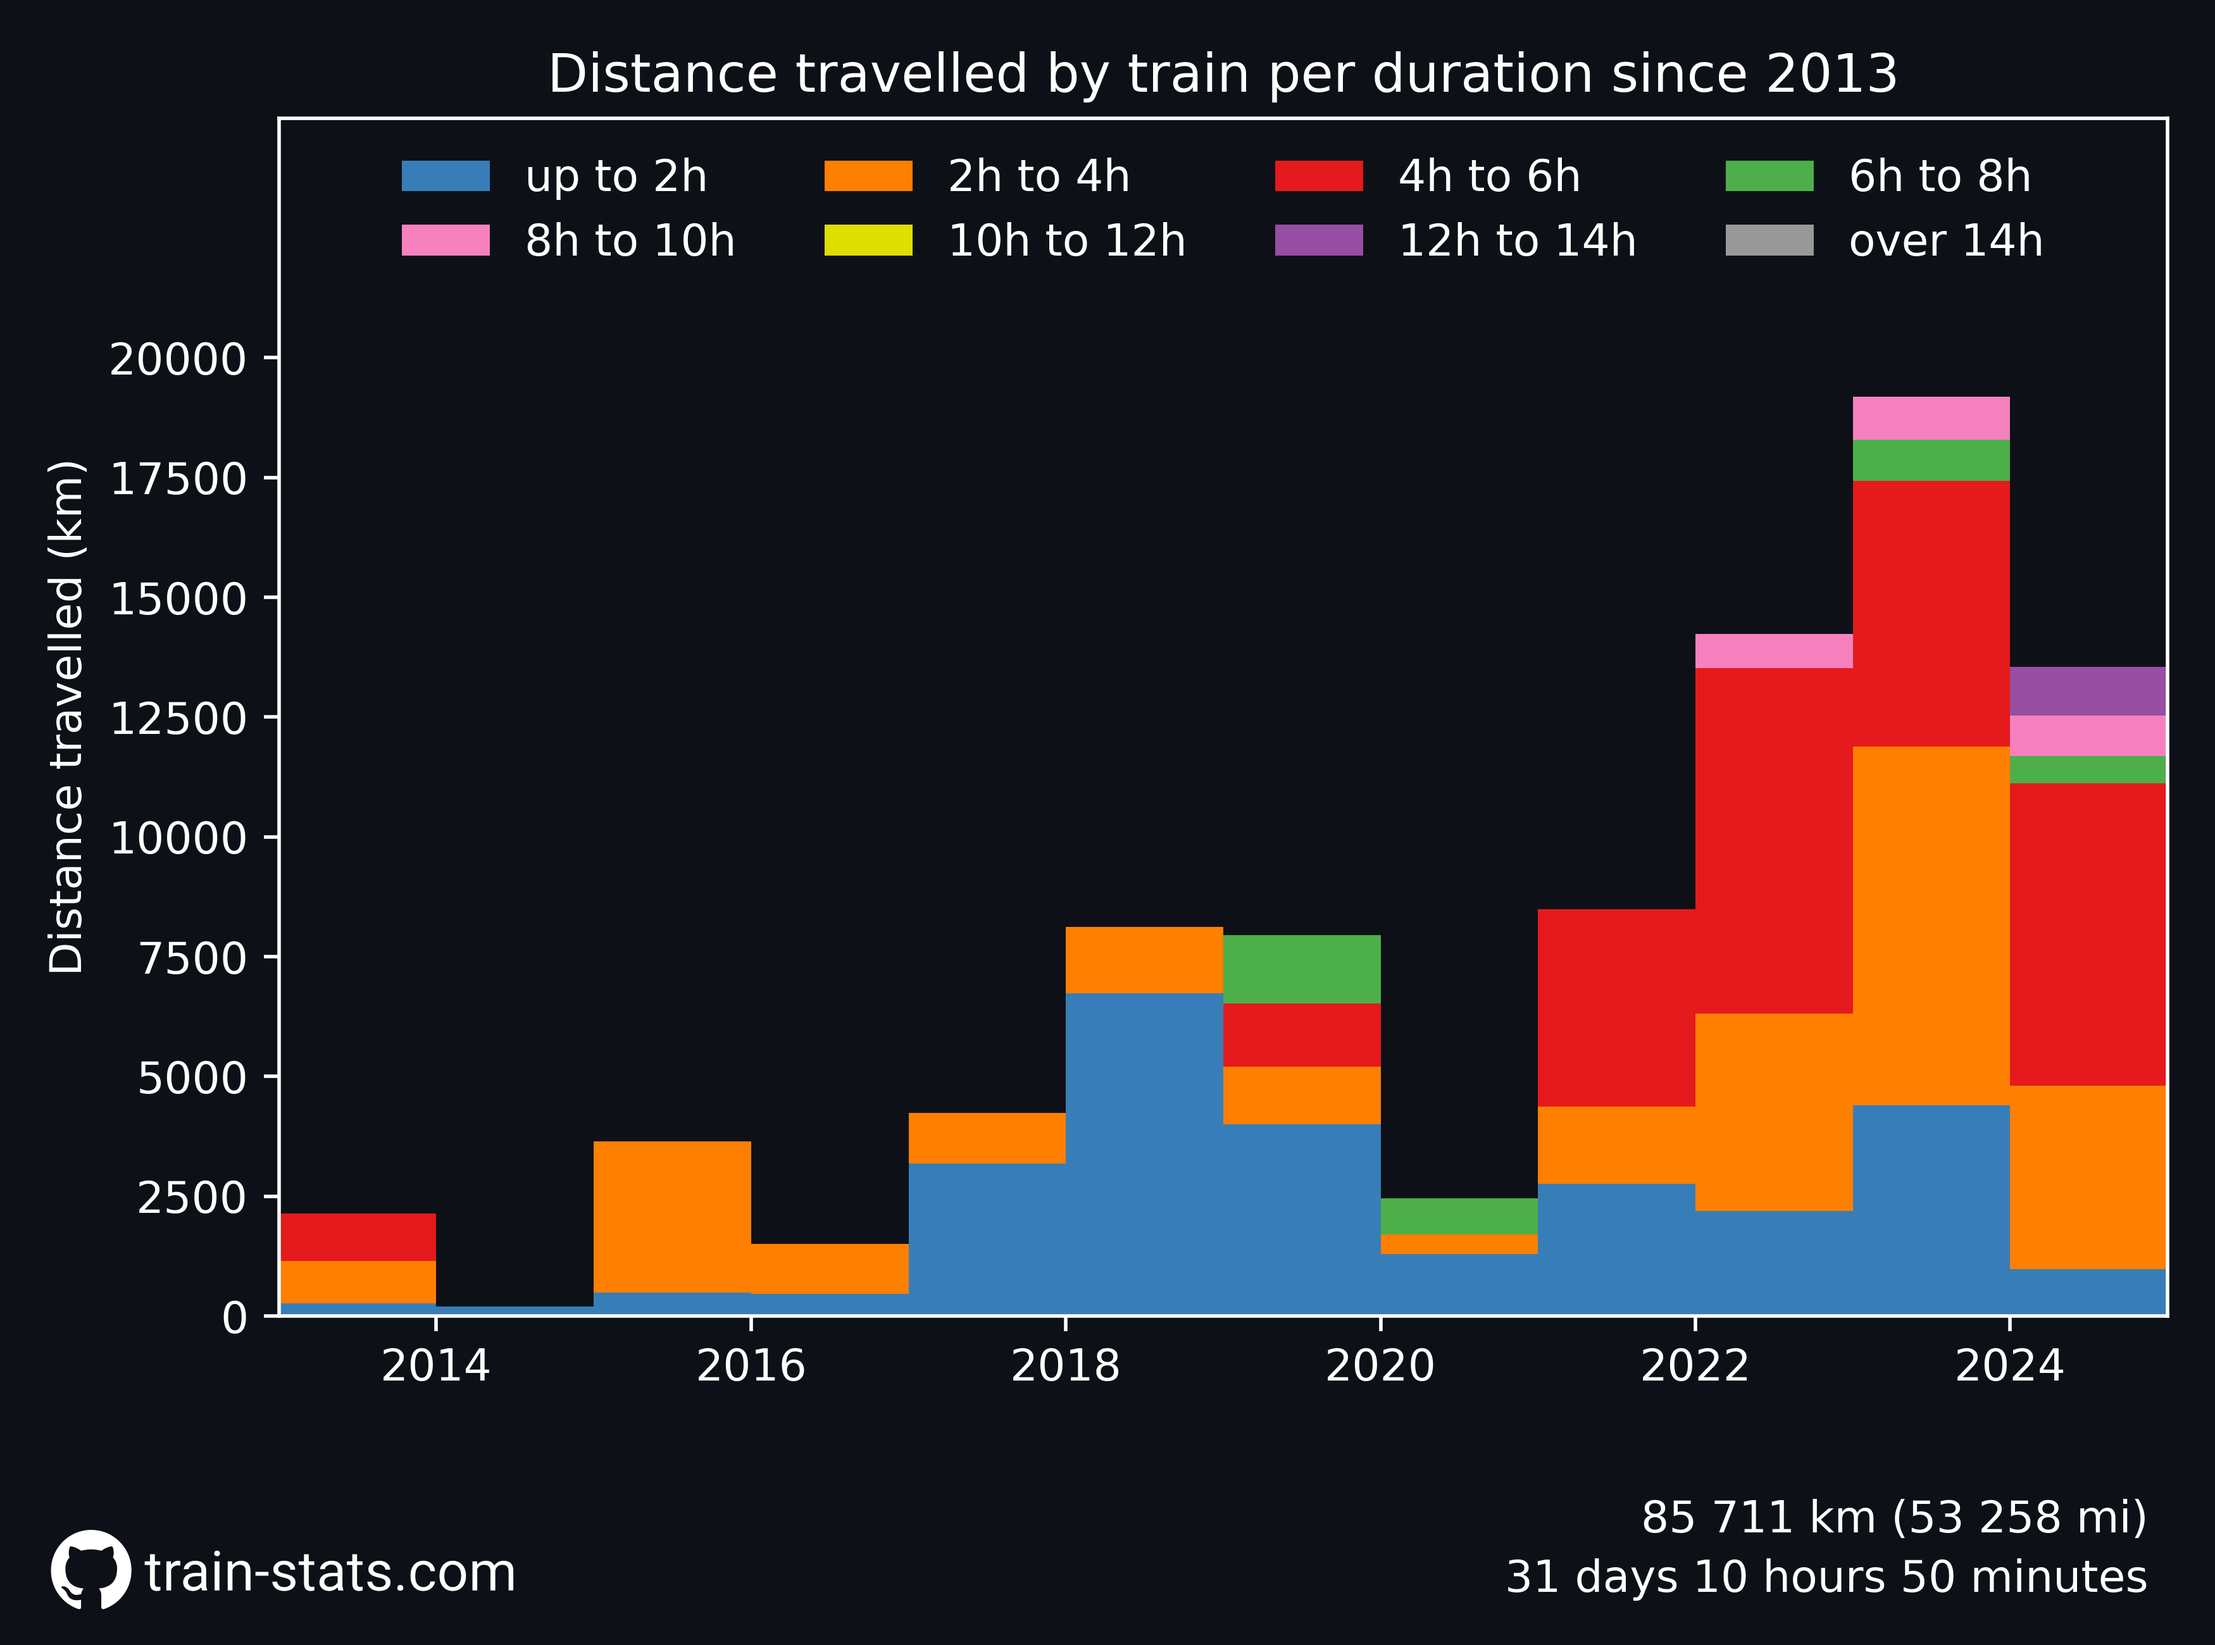
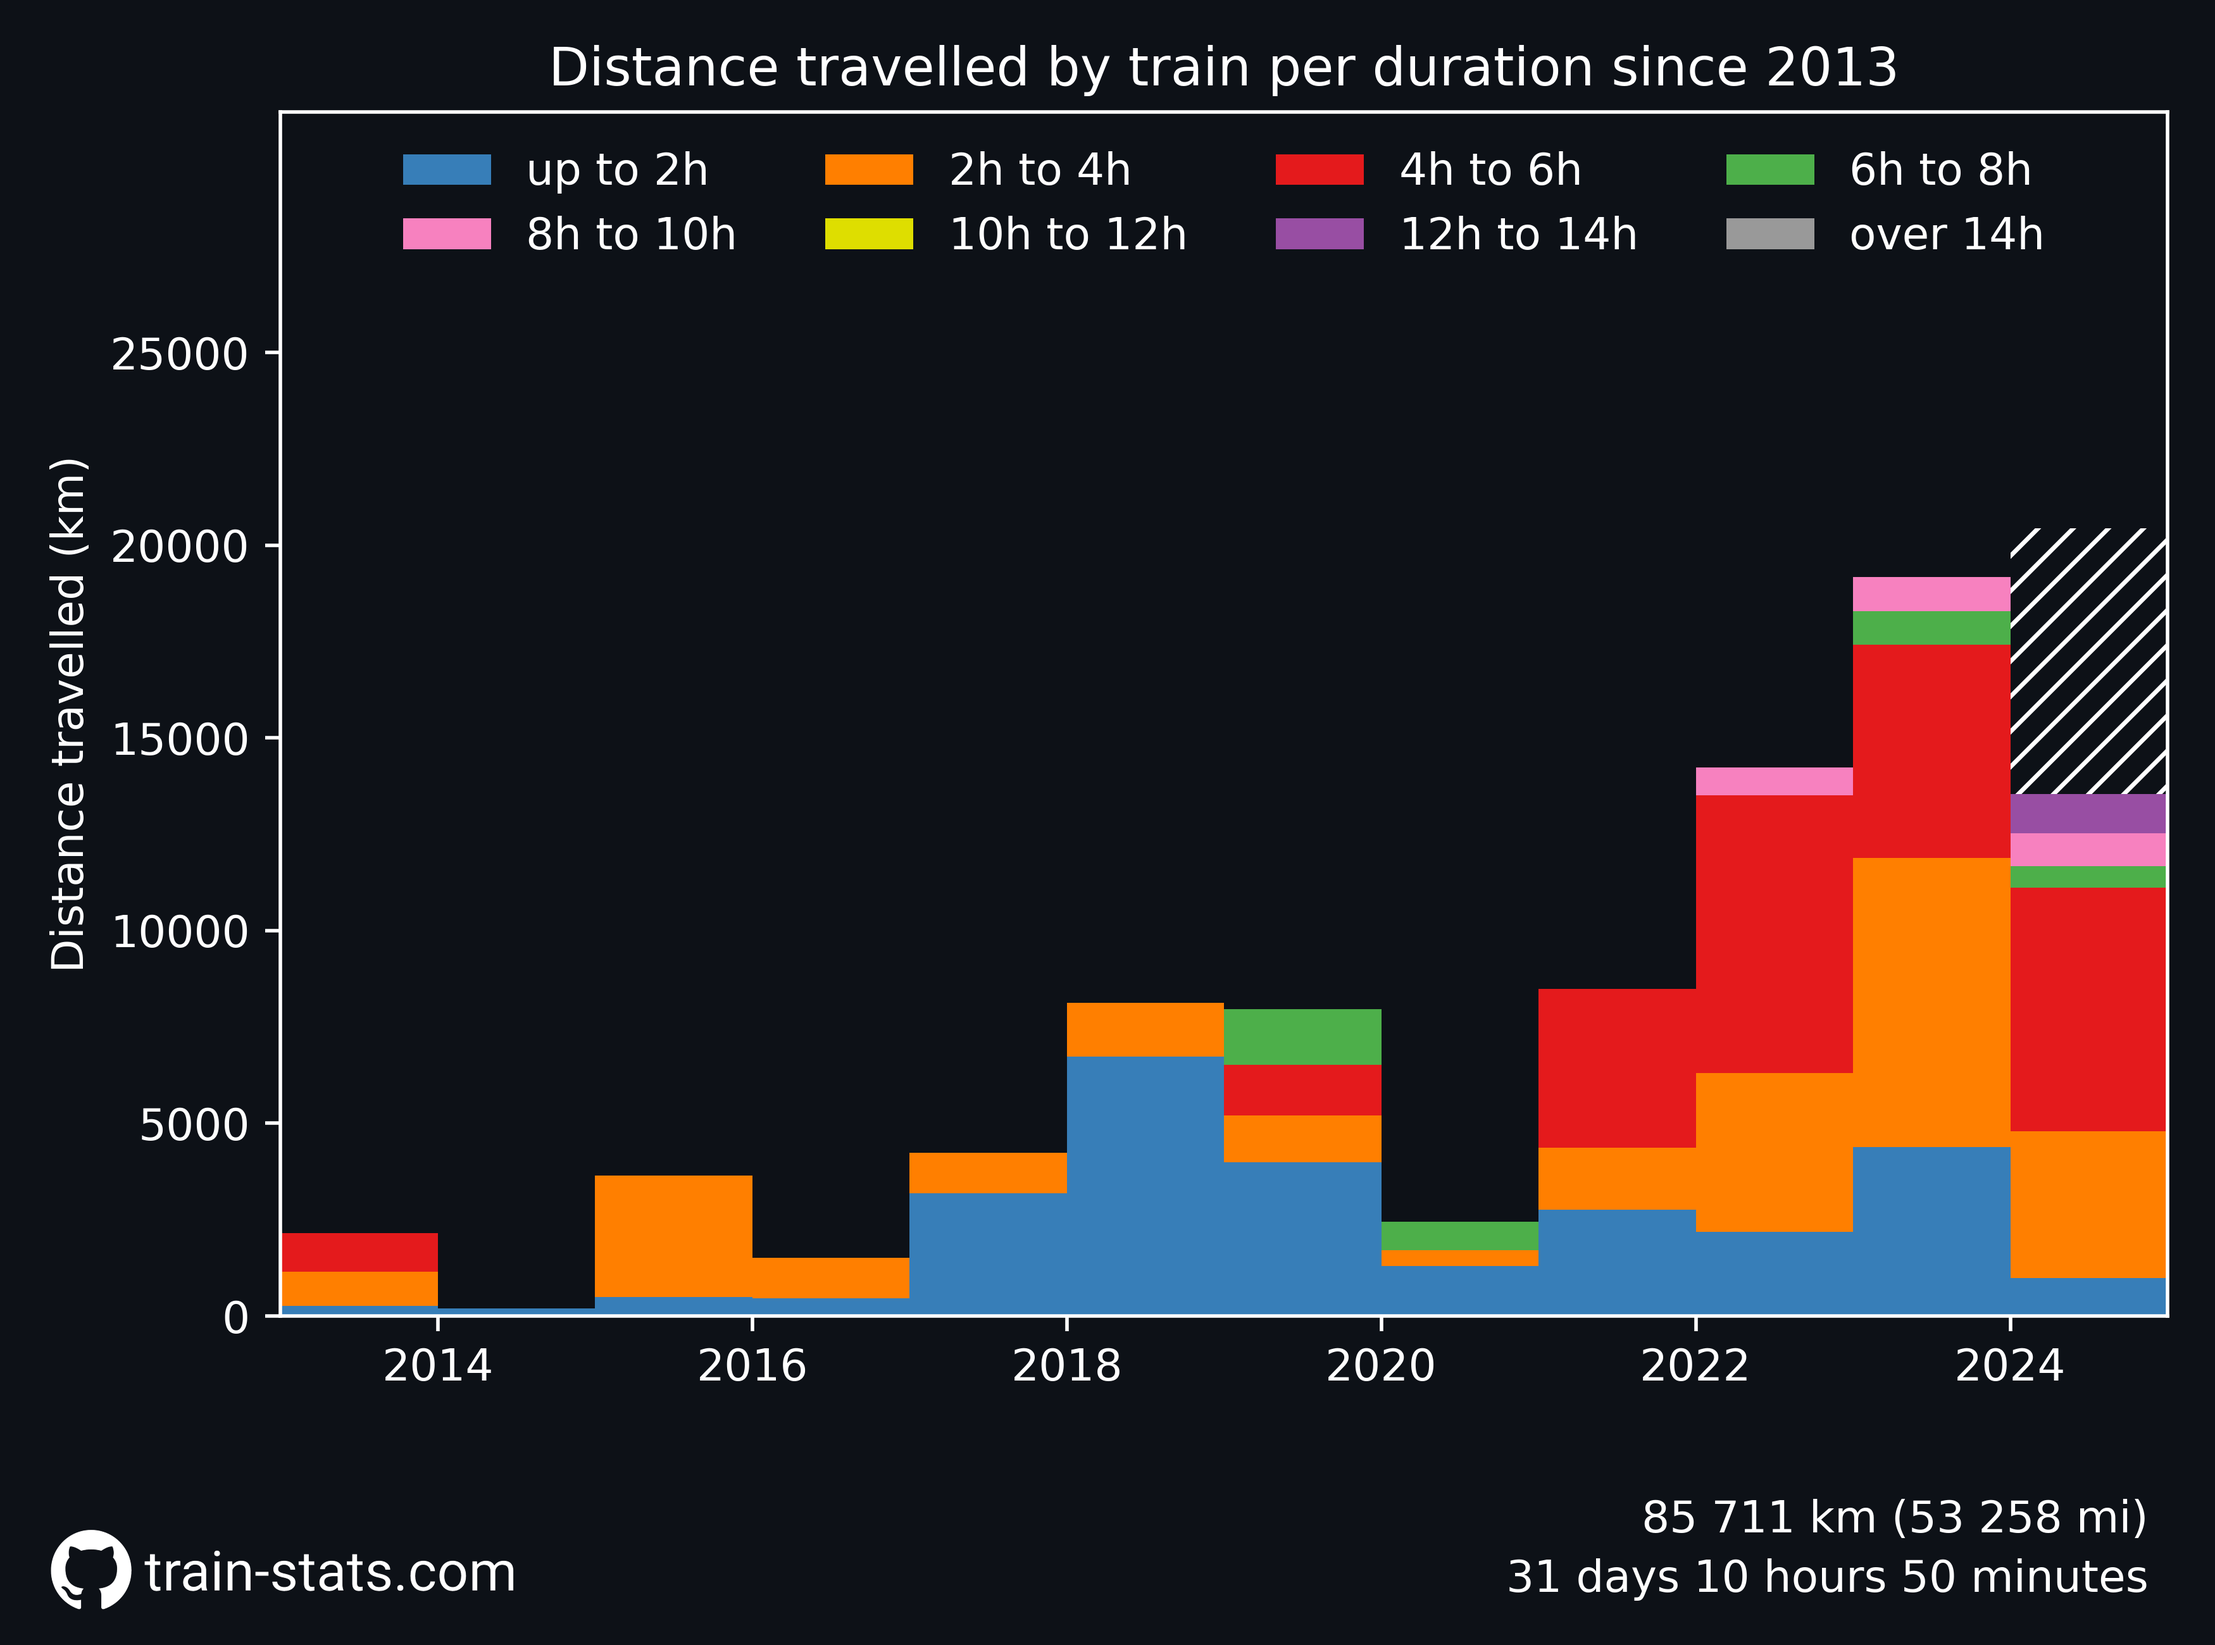
add hatched future trains for the year

diff --git a/src/plotsCodes/distance_per_duration_stacked.py b/src/plotsCodes/distance_per_duration_stacked.py
@@ -1,4 +1,4 @@
-from utils import dark_figure, extract_trips_journeys, PARIS_TZ, COLORS, prepare_legend, finish_figure, compute_stats
+from utils import dark_figure, GITHUB_DARK, extract_trips_journeys, PARIS_TZ, COLORS, prepare_legend, finish_figure, compute_stats
 from datetime import datetime, timedelta
 import matplotlib.pyplot as plt
 
@@ -19,19 +19,22 @@ TIERS = [
 
 # Plot of km travelled by train journey duration
 def plot_distance_per_duration_stacked(trips):
-    trips, journeys = extract_trips_journeys(trips, filter_end=datetime.now(tz=PARIS_TZ))
+    past_trips, _ = extract_trips_journeys(trips, filter_end=datetime.now(tz=PARIS_TZ))
+    future_trips, _ = extract_trips_journeys(trips, filter_start=datetime.now(tz=PARIS_TZ),
+                                             filter_end=datetime(datetime.now(tz=PARIS_TZ).year + 1, 1, 1,
+                                                                 0, 0, 0, tzinfo=PARIS_TZ))
 
     fig, ax = dark_figure()
-    years = trips["Departure (Local)"].dt.year.unique().tolist()
+    years = past_trips["Departure (Local)"].dt.year.unique().tolist()
     bottom = np.zeros(len(years))
     for ii, tier in enumerate(TIERS):
         min_duration = timedelta(hours=tier[0])
         max_duration = timedelta(hours=tier[1])
         distances = []
-        tier_mask = trips["Duration"].between(min_duration, max_duration, inclusive="left")
+        tier_mask = past_trips["Duration"].between(min_duration, max_duration, inclusive="left")
         for year in years:
             distances.append(
-                trips.loc[tier_mask & (trips["Departure (Local)"].dt.year == year), "Distance (km)"].sum()
+                past_trips.loc[tier_mask & (past_trips["Departure (Local)"].dt.year == year), "Distance (km)"].sum()
             )
         distances = np.array(distances)
         ax[0].bar(
@@ -44,6 +47,18 @@ def plot_distance_per_duration_stacked(trips):
             align="edge",
         )
         bottom += distances
+    ax[0].bar(
+        future_trips["Departure (Local)"].dt.year.unique().tolist(),
+        future_trips["Distance (km)"].sum(),
+        bottom=bottom[-1],
+        color=GITHUB_DARK,
+        label=None,
+        width=1,
+        align="edge",
+        hatch="///",
+        linewidth=0,
+        edgecolor="white",
+    )
     handles, labels = prepare_legend(reverse=False)
     ax[0].legend(
         handles, labels, loc="upper center", ncol=4, frameon=False, labelcolor="white"
@@ -56,7 +71,7 @@ def plot_distance_per_duration_stacked(trips):
     plt.tight_layout()
 
     # Stats
-    distance_str, duration_str = compute_stats(trips, timezone=PARIS_TZ)
+    distance_str, duration_str = compute_stats(past_trips, timezone=PARIS_TZ)
     fig_axes = fig.add_axes([0.97, 0.027, 0.3, 0.3], anchor="SE", zorder=1)
     fig_axes.text(0, 0.12, distance_str, ha="right", va="bottom", color="white", fontsize=10)
     fig_axes.text(0, 0, duration_str, ha="right", va="bottom", color="white", fontsize=10)

diff --git a/src/plotsCodes/number_per_duration_stacked.py b/src/plotsCodes/number_per_duration_stacked.py
@@ -1,4 +1,5 @@
-from utils import dark_figure, extract_trips_journeys, PARIS_TZ, COLORS, prepare_legend, finish_figure, compute_stats
+from utils import dark_figure, extract_trips_journeys, PARIS_TZ, COLORS, prepare_legend, finish_figure, compute_stats, \
+    GITHUB_DARK
 import numpy as np
 from datetime import datetime, timedelta
 import matplotlib.pyplot as plt
@@ -18,27 +19,36 @@ TIERS = [
 
 # Plot of km travelled by train journey duration
 def plot_number_per_duration_stacked(trips):
-    trips, journeys = extract_trips_journeys(trips, filter_end=datetime.now(tz=PARIS_TZ))
+    past_trips, _ = extract_trips_journeys(trips, filter_end=datetime.now(tz=PARIS_TZ))
+    future_trips, _ = extract_trips_journeys(trips, filter_start=datetime.now(tz=PARIS_TZ),
+                                                           filter_end=datetime(datetime.now(tz=PARIS_TZ).year + 1, 1, 1,
+                                                                               0, 0, 0, tzinfo=PARIS_TZ))
 
     fig, ax = dark_figure()
-    years = trips["Departure (Local)"].dt.year.unique().tolist()
+    years = past_trips["Departure (Local)"].dt.year.unique().tolist()
     data = []
     for tier in TIERS:
         min_duration = timedelta(hours=tier[0])
         max_duration = timedelta(hours=tier[1])
         data.append(
-            trips[trips["Duration"].between(min_duration, max_duration, inclusive="left")][
+            past_trips[past_trips["Duration"].between(min_duration, max_duration, inclusive="left")][
                 "Departure (Local)"
             ].dt.year.values.tolist()
         )
-    ax[0].hist(
+    data.append(future_trips["Departure (Local)"].dt.year.values.tolist())
+    _, _, bar_containers = ax[0].hist(
         data,
         bins=np.append(np.unique(years), max(years) + 1),
         histtype="bar",
         stacked=True,
         label=[tier[2] for tier in TIERS],
-        color=COLORS,
+        color=COLORS + [GITHUB_DARK],
     )
+    for p in bar_containers[-1].patches:
+        p.set_label(None)
+        p.set_hatch("///")
+        p.set_linewidth(0)
+        p.set_edgecolor("white")
     handles, labels = prepare_legend(reverse=False)
     ax[0].legend(
         handles, labels, loc="upper center", ncol=4, frameon=False, labelcolor="white"
@@ -51,7 +61,7 @@ def plot_number_per_duration_stacked(trips):
     plt.tight_layout()
 
     # Stats
-    distance_str, duration_str = compute_stats(trips, timezone=PARIS_TZ)
+    distance_str, duration_str = compute_stats(past_trips, timezone=PARIS_TZ)
     fig_axes = fig.add_axes([0.97, 0.027, 0.3, 0.3], anchor="SE", zorder=1)
     fig_axes.text(0, 0.12, distance_str, ha="right", va="bottom", color="white", fontsize=10)
     fig_axes.text(0, 0, duration_str, ha="right", va="bottom", color="white", fontsize=10)

diff --git a/src/utils.py b/src/utils.py
@@ -189,16 +189,17 @@ def get_datasheet_id():
 
 
 def extract_trips_journeys(trips, filter_start=None, filter_end=None):
+    trips_copy = trips.copy()
     if filter_start is not None:
-        trips = trips[trips["Departure (Local)"] >= filter_start]
+        trips_copy = trips_copy[trips_copy["Departure (Local)"] >= filter_start]
     if filter_end is not None:
-        trips = trips[trips["Arrival (Local)"] <= filter_end]
-    journey_counts = trips["journey"].value_counts().to_frame()
-    journey_distances = trips[["journey", "Distance (km)"]].groupby("journey").mean()
-    journey_firstdate = trips[["journey", "Arrival (Local)"]].groupby("journey").min()
+        trips_copy = trips_copy[trips_copy["Arrival (Local)"] <= filter_end]
+    journey_counts = trips_copy["journey"].value_counts().to_frame()
+    journey_distances = trips_copy[["journey", "Distance (km)"]].groupby("journey").mean()
+    journey_firstdate = trips_copy[["journey", "Arrival (Local)"]].groupby("journey").min()
     journeys = journey_counts.join(journey_distances).join(journey_firstdate)
     journeys.rename(columns={"Distance (km)": "distance", "Arrival (Local)": "firstdate"}, inplace=True)
-    return trips, journeys
+    return trips_copy, journeys
 
 
 def km_to_mi(km):
